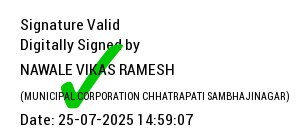
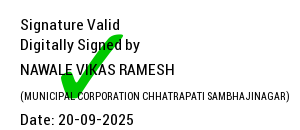
changes on live

Changed region(s): [[0.18, 0.2462, 0.42, 0.8615], [0.45, 0.8615, 0.66, 0.9846], [0.21, 0.8615, 0.33, 0.9846]]

diff --git a/includes/footer.php b/includes/footer.php
@@ -2048,44 +2048,7 @@ function sendApplicationMail(Shop_Cd, Operation) {
     });
 }
 
-document.addEventListener('contextmenu', event => event.preventDefault());
-// document.addEventListener('copy', event => event.preventDefault());
-// document.addEventListener('paste', event => event.preventDefault());
 
-document.addEventListener('contextmenu', function(e) {
-    e.preventDefault();
-});
-
-document.addEventListener('keydown', function(e) {
-    if (e.keyCode == 123 || (e.ctrlKey && e.shiftKey && e.keyCode == 73)) {
-        e.preventDefault();
-    }
-});
-
-document.addEventListener('keydown', function(e) {
-    if (e.keyCode == 44) {
-        e.preventDefault();
-        alert('Print Screen is disabled');
-    }
-});
-
-document.addEventListener('keydown', function(e) {
-    if (e.key === "F12") {
-        e.preventDefault();
-    }
-
-    if (e.ctrlKey && e.shiftKey && e.key === "I") {
-        e.preventDefault();
-    }
-
-    if (e.ctrlKey && e.shiftKey && e.key === "C") {
-        e.preventDefault();
-    }
-    
-    if (e.ctrlKey && e.key === "u") {
-        e.preventDefault();
-    }
-});
 </script>
 </body>
 
